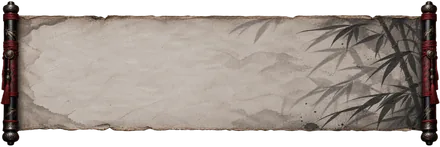
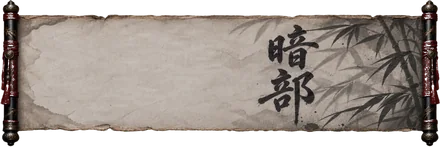
The painted scrolls, and the overlay that is no longer needed
GPT's second set does the thing a font could not: the rank characters are
brush-painted into the artwork, with dry-brush edges and ink that pools and
breaks. Yuji Syuku was a decent approximation of that and this is the thing
itself.

So the text kanji goes, or every scroll prints its rank twice, and the font with
it: index.html no longer loads Yuji Syuku at all, because the overlay was the
only thing that ever used it.

The count and the name move into the blank left half, layout A of the four.
Under the characters would lay the name across the painted cloudwork, which is
the part of these least worth covering. Both still multiply into the paper, so
the fibre and the water marks show through them.

The red halo along the keyed-out edges is gone: 5,102 pixels on Anbu, fewer on
Kage and Jonin, none on the other three. It is keyed out at full size before any
resampling can smear it inward. The cause is that the source is indexed-palette
PNG, where transparency is one bit and an edge pixel has nowhere to fade to; RGBA
exports would not have it.

102KB for the six, from 12.9MB of source.

diff --git a/style.css b/style.css
@@ -662,41 +662,27 @@ input[type=text]:focus,input[type=number]:focus,input[type=email]:focus,select:f
 :root[data-skin="paper"] .rank-card img{
   width:100%;height:100%;object-fit:contain;display:block;
 }
-/* The paper starts between 1.8% and 5.5% across the six, so 13% is inside the
-   panel on every one of them rather than clearing a worst case. */
+/* Both pieces of type live in the blank left half of the paper. The characters
+   are painted into the artwork in this set, so there is no text kanji any more,
+   and putting the name back under them would lay it across the cloudwork, which
+   is the part of these scrolls least worth covering up.
+
+   Multiply is what stops them looking stuck on. Flat dark text over a painting
+   of paper reads as a label, because the grain and the staining halt at the
+   edge of every stroke; blending the ink into what is behind it lets the fibre
+   and the water marks show through. The colours are lifted off black for the
+   same reason, since at full black a multiply has nothing left to reveal. */
 :root[data-skin="paper"] .rank-count{
-  position:absolute;left:13%;top:50%;transform:translate(-50%,-50%);
-  font-family:'Spectral',serif;font-size:8.5cqw;font-weight:600;line-height:1;
+  position:absolute;left:18%;top:41%;transform:translate(-50%,-50%);
+  font-family:'Spectral',serif;font-size:9cqw;font-weight:600;line-height:1;
   color:#3b2f26;
   mix-blend-mode:multiply;
 }
 
-/* Brush, not gothic. A sans-serif kanji on a painted scroll reads as a caption
-   stuck onto a painting. Yuji Syuku is brush-written, and index.html subsets it
-   to the eight characters these six ranks use. */
-:root[data-skin="paper"] .rank-kanji{
-  position:absolute;left:64%;top:44%;transform:translate(-50%,-50%);
-  font-family:'Yuji Syuku','Noto Sans JP',serif;
-  font-size:12cqw;font-weight:400;line-height:1;white-space:nowrap;
-  /* Multiply is what makes it look painted rather than typed. Flat dark text
-     over a photograph of paper reads as a label pasted on top, because the
-     paper's grain and staining stop dead at the edge of every stroke. Blending
-     the ink into what is behind it lets the fibre, the water marks and the fold
-     show through the strokes, which is what ink on old paper actually does.
-     The colour is lifted a little as well: at full black the multiply has
-     nothing left to reveal. */
-  color:#3b2f26;
-  mix-blend-mode:multiply;
-}
-
-/* Rock Salt, back under the characters and level. Lasz tried the angled
-   version and did not want it. Its single weight is left alone too: the stroke
-   that thickened it for the angled treatment made it heavy once it was sitting
-   quietly under the kanji again. */
 :root[data-skin="paper"] .rank-name{
-  position:absolute;left:64%;top:79%;transform:translate(-50%,-50%);
+  position:absolute;left:18%;top:66%;transform:translate(-50%,-50%);
   font-family:'Rock Salt','Spectral',serif;
-  font-size:4.2cqw;line-height:1;letter-spacing:0.01em;white-space:nowrap;
+  font-size:4cqw;line-height:1;letter-spacing:0.01em;white-space:nowrap;
   color:#3a2c1e;
   mix-blend-mode:multiply;
 }

diff --git a/index.html b/index.html
@@ -59,14 +59,10 @@
 <link rel="preconnect" href="https://fonts.googleapis.com">
 <link rel="preconnect" href="https://fonts.gstatic.com" crossorigin>
 <link href="https://fonts.googleapis.com/css2?family=Spectral:wght@400;500;600&family=Inter:wght@400;500;600&family=Noto+Sans+JP:wght@400;500;700&display=swap" rel="stylesheet">
-<!-- The rank characters, brush-written. Subsetted with the text parameter to
-     the eight characters the six ranks use, so it is a few hundred bytes
-     rather than a Japanese font. -->
-<link href="https://fonts.googleapis.com/css2?family=Yuji+Syuku&text=%E6%96%B0%E4%B8%8B%E5%BF%8D%E4%B8%AD%E4%B8%8A%E6%9A%97%E9%83%A8%E5%BD%B1ACGJKNabeghinouw&display=swap" rel="stylesheet">
 <!-- The rank names, angled across the scroll. Subsetted to the sixteen
      letters the six names use. -->
 <link href="https://fonts.googleapis.com/css2?family=Rock+Salt&text=ACGJKNabeghinouw&display=swap" rel="stylesheet">
-<link rel="stylesheet" href="style.css?v=d4a1328a">
+<link rel="stylesheet" href="style.css?v=bed2b097">
 </head>
 <body>
 <div id="root"><div class="loading">Loading…</div></div>
@@ -85,6 +81,6 @@
         integrity="sha384-OUpie84zd1LdwNlK9uJJQRwab0BLqo3eKYKFh7hSVL58FSk7wPp2l0kfUMIIoaQd"
         crossorigin="anonymous"></script>
 <script src="sync.js?v=cc76abf8"></script>
-<script src="app.js?v=1284392c"></script>
+<script src="app.js?v=e1311b68"></script>
 </body>
 </html>

diff --git a/app.js b/app.js
@@ -1621,13 +1621,6 @@ function renderWeekSection(){
   </div>`;
 }
 
-// The rank characters. Drawn as text rather than being part of the artwork, so
-// they are correct, they sit in the same place on all six, and they take the
-// palette's ink colour instead of being fixed in the picture.
-const TIER_KANJI = {
-  new:'新', genin:'下忍', chunin:'中忍', jonin:'上忍', anbu:'暗部', kage:'影'
-};
-
 // Two ways of drawing the same six counts.
 //
 // The painted scrolls belong to the paper palettes. On Classic they would be
@@ -1653,7 +1646,6 @@ function renderTiersSection(c){
       <button class="rank-card" onclick="showTier('${t}')" title="Show these words">
         <img src="img/ranks/${t}.webp" alt="" loading="lazy" width="440" height="147">
         <span class="rank-count">${c.counts[t]}</span>
-        <span class="rank-kanji">${TIER_KANJI[t]}</span>
         <span class="rank-name">${t.charAt(0).toUpperCase()+t.slice(1)}</span>
       </button>`).join('')}
   </div>`;
